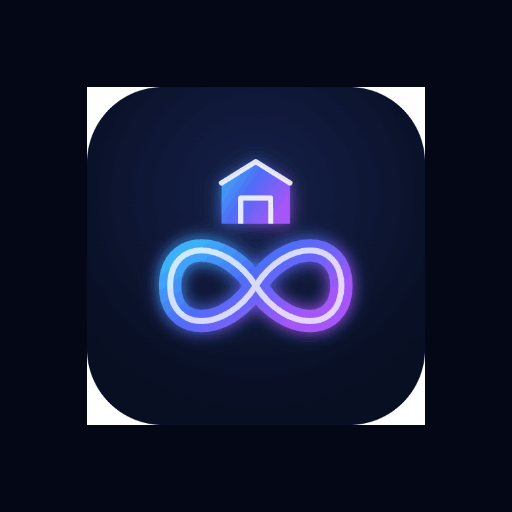
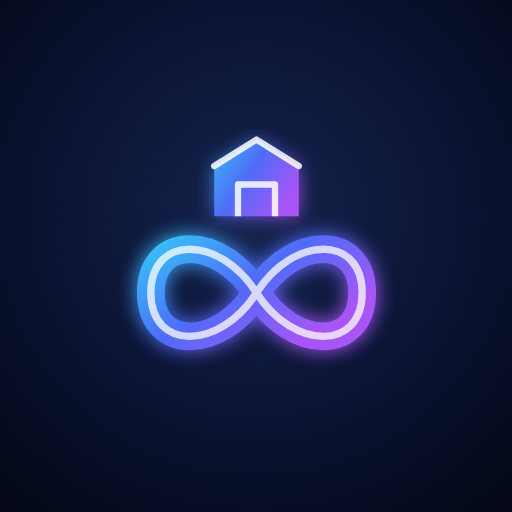
fix(pwa): gerar icones do SVG vetorial, eliminando a moldura branca
A tentativa anterior nao resolveu e ainda piorou. Ela reaproveitou o PNG
antigo -- que era um squircle com fundo proprio (navy mais claro), cantos
arredondados desenhados e transparencia em volta -- colando-o reduzido
sobre um quadrado escuro. O resultado foi um squircle claro flutuando
dentro de um quadrado escuro: exatamente a "moldura" reportada.

Agora os icones sao renderizados a partir de public/branding/
infinoos-icon-wms.svg (arte vetorial pura, sem fundo) sobre um quadrado
inteiro com o gradiente do brand. Sem formas aninhadas, sem cantos
arredondados no arquivo, sem transparencia -- o recorte fica por conta do
SO, que e o comportamento correto.

Passam a existir arquivos separados por finalidade, porque a mesma arte
nao serve as duas:
  - "any" (taskbar, dialogo de instalacao, apple-touch): arte a 80% do
    lado, preenche bem quando renderizada direto.
  - "maskable" (recorte adaptativo): arte a 62% do lado. A safe zone e um
    circulo de diametro 0.8*N; com a proporcao 120:96 do viewBox a
    meia-diagonal e 0.640*w, e 0.640*w <= 0.40*N da w <= 0.625*N.

Tambem regerados src/app/icon.png e src/app/apple-icon.png, que ainda
guardavam a arte antiga. Hoje eles nao sao referenciados (o metadata.icons
do layout tem precedencia e aponta para /branding/*), mas ficam servidos
em /icon.png e /apple-icon.png e nao devem divergir.

Verificado por inspecao de pixels: os 6 PNGs estao 100% opacos
(minAlpha=255), canto superior esquerdo rgba(5,11,30,255). A transparencia
[…]

diff --git a/src/app/manifest.ts b/src/app/manifest.ts
@@ -18,13 +18,13 @@ export default function manifest(): MetadataRoute.Manifest {
     theme_color: "#040816",
     categories: ["business", "productivity", "utilities"],
     lang: "pt-BR",
-    // Cada ícone é declarado duas vezes: uma como "any" (para o launcher
-    // padrão) e outra como "maskable" (para o recorte adaptativo do Android
-    // e do PWA no desktop). Sem a variante maskable o SO desenha um fundo
-    // branco atrás do PNG. Confirmado que o mesmo arquivo serve aos dois
-    // usos: infinoos-mark-512.png e infinoos-mark-maskable-512.png eram
-    // byte a byte idênticos, ou seja, a arte já preenche a área com o fundo
-    // do brand — safe zone respeitada.
+    // Arquivos distintos por finalidade — a mesma arte não serve às duas.
+    // "any" é renderizado direto (taskbar, diálogo de instalação), então a
+    // arte vem grande; "maskable" é recortado num círculo pelo SO, então a
+    // arte vem menor para caber na safe zone. Todos são quadrados opacos
+    // preenchidos com o fundo do brand: sem transparência, que é o que
+    // fazia o Windows pintar branco por baixo. Gerados por
+    // scripts/rebuild-pwa-icons.mjs a partir de infinoos-icon-wms.svg.
     icons: [
       {
         src: "/branding/infinoos-mark-192.png",
@@ -33,19 +33,19 @@ export default function manifest(): MetadataRoute.Manifest {
         purpose: "any",
       },
       {
-        src: "/branding/infinoos-mark-192.png",
-        sizes: "192x192",
-        type: "image/png",
-        purpose: "maskable",
-      },
-      {
         src: "/branding/infinoos-mark-512.png",
         sizes: "512x512",
         type: "image/png",
         purpose: "any",
       },
       {
-        src: "/branding/infinoos-mark-512.png",
+        src: "/branding/infinoos-mark-maskable-192.png",
+        sizes: "192x192",
+        type: "image/png",
+        purpose: "maskable",
+      },
+      {
+        src: "/branding/infinoos-mark-maskable-512.png",
         sizes: "512x512",
         type: "image/png",
         purpose: "maskable",
